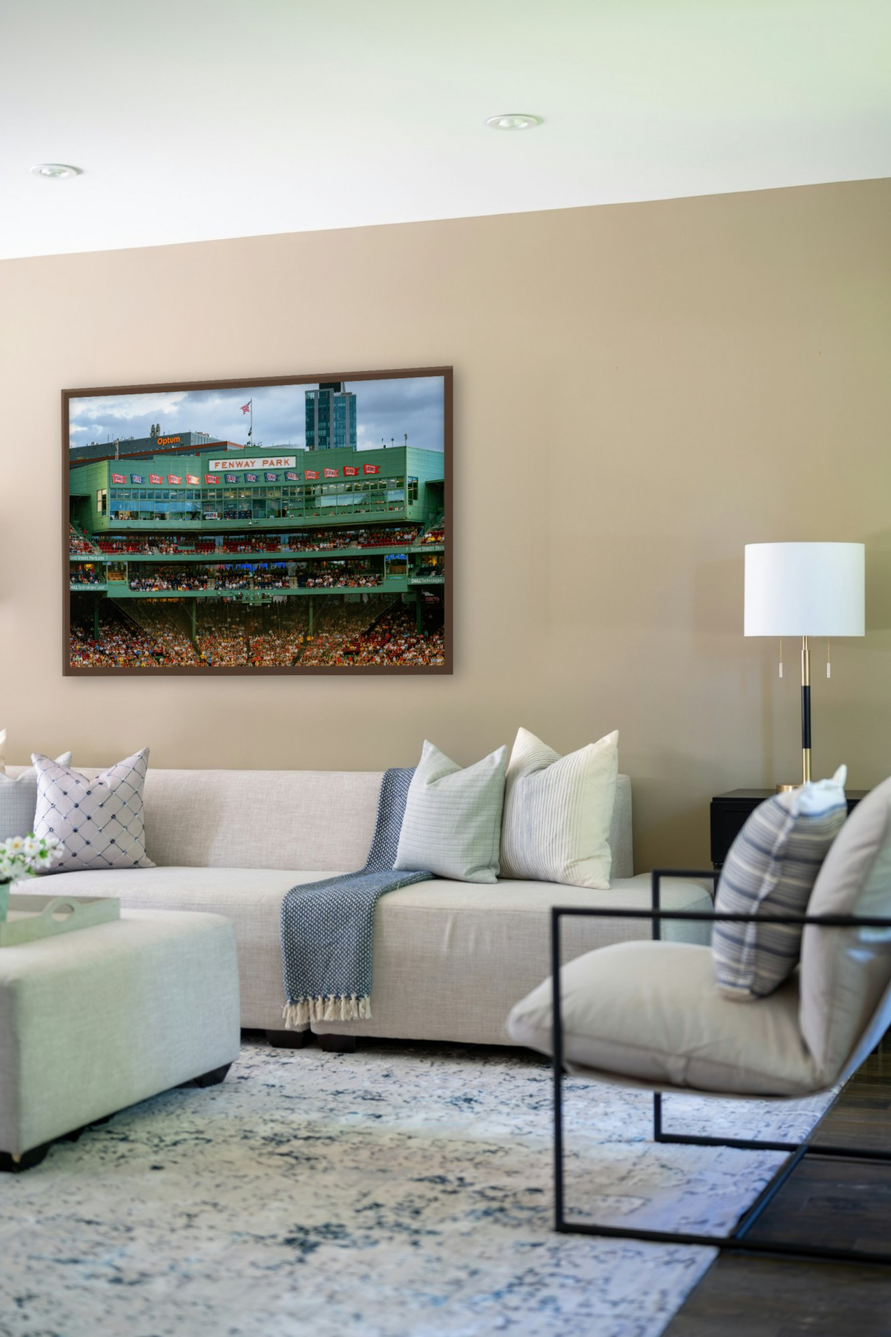
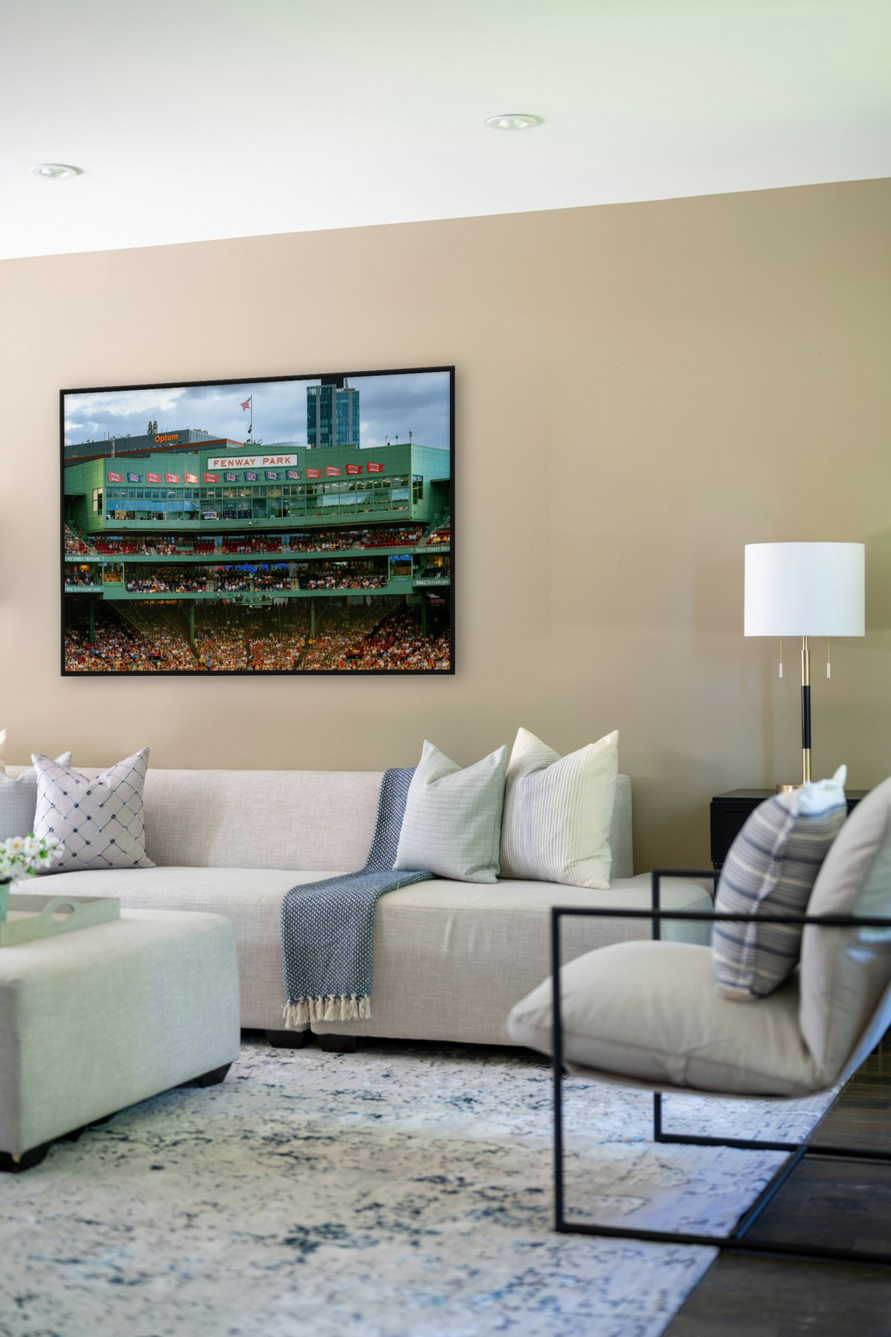
Room views: black frames on every framed view
Claude-Session: https://claude.ai/code/session_01MbwgoxaybNPLp1fp55gF6K

Changed region(s): [[0.0615, 0.248, 0.5229, 0.527]]

diff --git a/tow-zone.html b/tow-zone.html
@@ -16,7 +16,7 @@
 <meta property="og:title" content="&quot;Tow Zone&quot; — Bill Lin">
 <meta property="og:description" content="Tow Zone: a pigeon and sparrows at a bird feeder on a Boston street sign. A fine art print by Bill Lin.">
 <meta property="og:url" content="https://billlinphotos.com/tow-zone">
-<meta property="og:image" content="https://billlinphotos.com/images/tow-zone.jpg">
+<meta property="og:image" content="https://billlinphotos.com/images/tow-zone.jpg?v=2">
 <meta name="twitter:card" content="summary_large_image">
 <link rel="stylesheet" href="css/style.css?v=c9335f34">
 </head>
@@ -27,8 +27,8 @@
   <div class="crumbs"><a href="shop.html">Shop</a><span>›</span>"Tow Zone"</div>
   <div class="product-layout">
     <div class="product-gallery" style="--stage: 0.667">
-      <figure class="zoom pg-main"><img src="images/tow-zone.jpg" alt="Tow Zone — a pigeon landing at a bird feeder on a Boston street sign" srcset="images/sm/tow-zone.jpg 1200w, images/tow-zone.jpg 1707w" sizes="(max-width: 900px) 92vw, 46vw" decoding="async"></figure>
-      <div class="pg-thumbs" aria-label="More views"><button type="button" class="pg-thumb active" data-src="images/tow-zone.jpg" data-srcset="images/sm/tow-zone.jpg 1200w, images/tow-zone.jpg 1707w" aria-label="The print" aria-current="true"><img src="images/sm/tow-zone.jpg" alt="Tow Zone — a pigeon landing at a bird feeder on a Boston street sign" decoding="async"></button><button type="button" class="pg-thumb" data-material="Canvas Print" data-src="images/mockups/tow-zone-canvas-1.jpg" data-srcset="images/mockups/sm/tow-zone-canvas-1.jpg 667w, images/mockups/tow-zone-canvas-1.jpg 1333w" aria-label="Canvas — In a living room"><img src="images/mockups/sm/tow-zone-canvas-1.jpg" alt="Tow Zone — a pigeon landing at a bird feeder on a Boston street sign — canvas in a living room" decoding="async" loading="lazy"></button><button type="button" class="pg-thumb" data-material="Canvas Print" data-src="images/mockups/tow-zone-canvas-2.jpg" data-srcset="images/mockups/sm/tow-zone-canvas-2.jpg 1000w, images/mockups/tow-zone-canvas-2.jpg 2000w" aria-label="Canvas — By a reading chair"><img src="images/mockups/sm/tow-zone-canvas-2.jpg" alt="Tow Zone — a pigeon landing at a bird feeder on a Boston street sign — canvas by a reading chair" decoding="async" loading="lazy"></button><button type="button" class="pg-thumb" data-material="Canvas Print" data-src="images/mockups/tow-zone-canvas-3.jpg" data-srcset="images/mockups/sm/tow-zone-canvas-3.jpg 667w, images/mockups/tow-zone-canvas-3.jpg 1333w" aria-label="Canvas — Above a sofa"><img src="images/mockups/sm/tow-zone-canvas-3.jpg" alt="Tow Zone — a pigeon landing at a bird feeder on a Boston street sign — canvas above a sofa" decoding="async" loading="lazy"></button><button type="button" class="pg-thumb" data-material="Canvas Print" data-src="images/mockups/tow-zone-canvas-4.jpg" data-srcset="images/mockups/sm/tow-zone-canvas-4.jpg 667w, images/mockups/tow-zone-canvas-4.jpg 1333w" aria-label="Canvas — On a bare wall"><img src="images/mockups/sm/tow-zone-canvas-4.jpg" alt="Tow Zone — a pigeon landing at a bird feeder on a Boston street sign — canvas on a bare wall" decoding="async" loading="lazy"></button><button type="button" class="pg-thumb" data-material="Framed Print" data-src="images/mockups/tow-zone-1.jpg" data-srcset="images/mockups/sm/tow-zone-1.jpg 667w, images/mockups/tow-zone-1.jpg 1333w" aria-label="Framed — In a living room"><img src="images/mockups/sm/tow-zone-1.jpg" alt="Tow Zone — a pigeon landing at a bird feeder on a Boston street sign — in a living room" decoding="async" loading="lazy"></button><button type="button" class="pg-thumb" data-material="Framed Print" data-src="images/mockups/tow-zone-2.jpg" data-srcset="images/mockups/sm/tow-zone-2.jpg 1000w, images/mockups/tow-zone-2.jpg 2000w" aria-label="Framed — By a reading chair"><img src="images/mockups/sm/tow-zone-2.jpg" alt="Tow Zone — a pigeon landing at a bird feeder on a Boston street sign — by a reading chair" decoding="async" loading="lazy"></button><button type="button" class="pg-thumb" data-material="Framed Print" data-src="images/mockups/tow-zone-3.jpg" data-srcset="images/mockups/sm/tow-zone-3.jpg 667w, images/mockups/tow-zone-3.jpg 1333w" aria-label="Framed — Above a sofa"><img src="images/mockups/sm/tow-zone-3.jpg" alt="Tow Zone — a pigeon landing at a bird feeder on a Boston street sign — above a sofa" decoding="async" loading="lazy"></button><button type="button" class="pg-thumb" data-material="Framed Print" data-src="images/mockups/tow-zone-4.jpg" data-srcset="images/mockups/sm/tow-zone-4.jpg 667w, images/mockups/tow-zone-4.jpg 1333w" aria-label="Framed — On a bare wall"><img src="images/mockups/sm/tow-zone-4.jpg" alt="Tow Zone — a pigeon landing at a bird feeder on a Boston street sign — on a bare wall" decoding="async" loading="lazy"></button></div>
+      <figure class="zoom pg-main"><img src="images/tow-zone.jpg?v=2" alt="Tow Zone — a pigeon landing at a bird feeder on a Boston street sign" srcset="images/sm/tow-zone.jpg?v=2 1200w, images/tow-zone.jpg?v=2 1707w" sizes="(max-width: 900px) 92vw, 46vw" decoding="async"></figure>
+      <div class="pg-thumbs" aria-label="More views"><button type="button" class="pg-thumb active" data-src="images/tow-zone.jpg?v=2" data-srcset="images/sm/tow-zone.jpg?v=2 1200w, images/tow-zone.jpg?v=2 1707w" aria-label="The print" aria-current="true"><img src="images/sm/tow-zone.jpg?v=2" alt="Tow Zone — a pigeon landing at a bird feeder on a Boston street sign" decoding="async"></button><button type="button" class="pg-thumb" data-material="Canvas Print" data-src="images/mockups/tow-zone-canvas-1.jpg?v=2" data-srcset="images/mockups/sm/tow-zone-canvas-1.jpg?v=2 667w, images/mockups/tow-zone-canvas-1.jpg?v=2 1333w" aria-label="Canvas — In a living room"><img src="images/mockups/sm/tow-zone-canvas-1.jpg?v=2" alt="Tow Zone — a pigeon landing at a bird feeder on a Boston street sign — canvas in a living room" decoding="async" loading="lazy"></button><button type="button" class="pg-thumb" data-material="Canvas Print" data-src="images/mockups/tow-zone-canvas-2.jpg?v=2" data-srcset="images/mockups/sm/tow-zone-canvas-2.jpg?v=2 1000w, images/mockups/tow-zone-canvas-2.jpg?v=2 2000w" aria-label="Canvas — By a reading chair"><img src="images/mockups/sm/tow-zone-canvas-2.jpg?v=2" alt="Tow Zone — a pigeon landing at a bird feeder on a Boston street sign — canvas by a reading chair" decoding="async" loading="lazy"></button><button type="button" class="pg-thumb" data-material="Canvas Print" data-src="images/mockups/tow-zone-canvas-3.jpg?v=2" data-srcset="images/mockups/sm/tow-zone-canvas-3.jpg?v=2 667w, images/mockups/tow-zone-canvas-3.jpg?v=2 1333w" aria-label="Canvas — Above a sofa"><img src="images/mockups/sm/tow-zone-canvas-3.jpg?v=2" alt="Tow Zone — a pigeon landing at a bird feeder on a Boston street sign — canvas above a sofa" decoding="async" loading="lazy"></button><button type="button" class="pg-thumb" data-material="Canvas Print" data-src="images/mockups/tow-zone-canvas-4.jpg?v=2" data-srcset="images/mockups/sm/tow-zone-canvas-4.jpg?v=2 667w, images/mockups/tow-zone-canvas-4.jpg?v=2 1333w" aria-label="Canvas — On a bare wall"><img src="images/mockups/sm/tow-zone-canvas-4.jpg?v=2" alt="Tow Zone — a pigeon landing at a bird feeder on a Boston street sign — canvas on a bare wall" decoding="async" loading="lazy"></button><button type="button" class="pg-thumb" data-material="Framed Print" data-src="images/mockups/tow-zone-1.jpg?v=2" data-srcset="images/mockups/sm/tow-zone-1.jpg?v=2 667w, images/mockups/tow-zone-1.jpg?v=2 1333w" aria-label="Framed — In a living room"><img src="images/mockups/sm/tow-zone-1.jpg?v=2" alt="Tow Zone — a pigeon landing at a bird feeder on a Boston street sign — in a living room" decoding="async" loading="lazy"></button><button type="button" class="pg-thumb" data-material="Framed Print" data-src="images/mockups/tow-zone-2.jpg?v=2" data-srcset="images/mockups/sm/tow-zone-2.jpg?v=2 1000w, images/mockups/tow-zone-2.jpg?v=2 2000w" aria-label="Framed — By a reading chair"><img src="images/mockups/sm/tow-zone-2.jpg?v=2" alt="Tow Zone — a pigeon landing at a bird feeder on a Boston street sign — by a reading chair" decoding="async" loading="lazy"></button><button type="button" class="pg-thumb" data-material="Framed Print" data-src="images/mockups/tow-zone-3.jpg?v=2" data-srcset="images/mockups/sm/tow-zone-3.jpg?v=2 667w, images/mockups/tow-zone-3.jpg?v=2 1333w" aria-label="Framed — Above a sofa"><img src="images/mockups/sm/tow-zone-3.jpg?v=2" alt="Tow Zone — a pigeon landing at a bird feeder on a Boston street sign — above a sofa" decoding="async" loading="lazy"></button><button type="button" class="pg-thumb" data-material="Framed Print" data-src="images/mockups/tow-zone-4.jpg?v=2" data-srcset="images/mockups/sm/tow-zone-4.jpg?v=2 667w, images/mockups/tow-zone-4.jpg?v=2 1333w" aria-label="Framed — On a bare wall"><img src="images/mockups/sm/tow-zone-4.jpg?v=2" alt="Tow Zone — a pigeon landing at a bird feeder on a Boston street sign — on a bare wall" decoding="async" loading="lazy"></button></div>
     </div>
     <div class="product-info" data-handle="tow-zone">
       <div class="product-text">

diff --git a/transient-serenity.html b/transient-serenity.html
@@ -28,7 +28,7 @@
   <div class="product-layout">
     <div class="product-gallery" style="--stage: 0.667">
       <figure class="zoom pg-main"><img src="images/DSC05015.jpg" alt="Transient Serenity — flowers on a wet sidewalk, Back Bay, Boston" srcset="images/sm/DSC05015.jpg 1200w, images/DSC05015.jpg 1706w" sizes="(max-width: 900px) 92vw, 46vw" decoding="async"></figure>
-      <div class="pg-thumbs" aria-label="More views"><button type="button" class="pg-thumb active" data-src="images/DSC05015.jpg" data-srcset="images/sm/DSC05015.jpg 1200w, images/DSC05015.jpg 1706w" aria-label="The print" aria-current="true"><img src="images/sm/DSC05015.jpg" alt="Transient Serenity — flowers on a wet sidewalk, Back Bay, Boston" decoding="async"></button><button type="button" class="pg-thumb" data-material="Canvas Print" data-src="images/mockups/transient-serenity-canvas-1.jpg" data-srcset="images/mockups/sm/transient-serenity-canvas-1.jpg 667w, images/mockups/transient-serenity-canvas-1.jpg 1333w" aria-label="Canvas — In a living room"><img src="images/mockups/sm/transient-serenity-canvas-1.jpg" alt="Transient Serenity — flowers on a wet sidewalk, Back Bay, Boston — canvas in a living room" decoding="async" loading="lazy"></button><button type="button" class="pg-thumb" data-material="Canvas Print" data-src="images/mockups/transient-serenity-canvas-2.jpg" data-srcset="images/mockups/sm/transient-serenity-canvas-2.jpg 1000w, images/mockups/transient-serenity-canvas-2.jpg 2000w" aria-label="Canvas — By a reading chair"><img src="images/mockups/sm/transient-serenity-canvas-2.jpg" alt="Transient Serenity — flowers on a wet sidewalk, Back Bay, Boston — canvas by a reading chair" decoding="async" loading="lazy"></button><button type="button" class="pg-thumb" data-material="Canvas Print" data-src="images/mockups/transient-serenity-canvas-3.jpg" data-srcset="images/mockups/sm/transient-serenity-canvas-3.jpg 667w, images/mockups/transient-serenity-canvas-3.jpg 1333w" aria-label="Canvas — Above a sofa"><img src="images/mockups/sm/transient-serenity-canvas-3.jpg" alt="Transient Serenity — flowers on a wet sidewalk, Back Bay, Boston — canvas above a sofa" decoding="async" loading="lazy"></button><button type="button" class="pg-thumb" data-material="Canvas Print" data-src="images/mockups/transient-serenity-canvas-4.jpg" data-srcset="images/mockups/sm/transient-serenity-canvas-4.jpg 667w, images/mockups/transient-serenity-canvas-4.jpg 1333w" aria-label="Canvas — On a bare wall"><img src="images/mockups/sm/transient-serenity-canvas-4.jpg" alt="Transient Serenity — flowers on a wet sidewalk, Back Bay, Boston — canvas on a bare wall" decoding="async" loading="lazy"></button><button type="button" class="pg-thumb" data-material="Framed Print" data-src="images/mockups/transient-serenity-1.jpg" data-srcset="images/mockups/sm/transient-serenity-1.jpg 667w, images/mockups/transient-serenity-1.jpg 1333w" aria-label="Framed — In a living room"><img src="images/mockups/sm/transient-serenity-1.jpg" alt="Transient Serenity — flowers on a wet sidewalk, Back Bay, Boston — in a living room" decoding="async" loading="lazy"></button><button type="button" class="pg-thumb" data-material="Framed Print" data-src="images/mockups/transient-serenity-2.jpg" data-srcset="images/mockups/sm/transient-serenity-2.jpg 1000w, images/mockups/transient-serenity-2.jpg 2000w" aria-label="Framed — By a reading chair"><img src="images/mockups/sm/transient-serenity-2.jpg" alt="Transient Serenity — flowers on a wet sidewalk, Back Bay, Boston — by a reading chair" decoding="async" loading="lazy"></button><button type="button" class="pg-thumb" data-material="Framed Print" data-src="images/mockups/transient-serenity-3.jpg" data-srcset="images/mockups/sm/transient-serenity-3.jpg 667w, images/mockups/transient-serenity-3.jpg 1333w" aria-label="Framed — Above a sofa"><img src="images/mockups/sm/transient-serenity-3.jpg" alt="Transient Serenity — flowers on a wet sidewalk, Back Bay, Boston — above a sofa" decoding="async" loading="lazy"></button><button type="button" class="pg-thumb" data-material="Framed Print" data-src="images/mockups/transient-serenity-4.jpg" data-srcset="images/mockups/sm/transient-serenity-4.jpg 667w, images/mockups/transient-serenity-4.jpg 1333w" aria-label="Framed — On a bare wall"><img src="images/mockups/sm/transient-serenity-4.jpg" alt="Transient Serenity — flowers on a wet sidewalk, Back Bay, Boston — on a bare wall" decoding="async" loading="lazy"></button></div>
+      <div class="pg-thumbs" aria-label="More views"><button type="button" class="pg-thumb active" data-src="images/DSC05015.jpg" data-srcset="images/sm/DSC05015.jpg 1200w, images/DSC05015.jpg 1706w" aria-label="The print" aria-current="true"><img src="images/sm/DSC05015.jpg" alt="Transient Serenity — flowers on a wet sidewalk, Back Bay, Boston" decoding="async"></button><button type="button" class="pg-thumb" data-material="Canvas Print" data-src="images/mockups/transient-serenity-canvas-1.jpg?v=2" data-srcset="images/mockups/sm/transient-serenity-canvas-1.jpg?v=2 667w, images/mockups/transient-serenity-canvas-1.jpg?v=2 1333w" aria-label="Canvas — In a living room"><img src="images/mockups/sm/transient-serenity-canvas-1.jpg?v=2" alt="Transient Serenity — flowers on a wet sidewalk, Back Bay, Boston — canvas in a living room" decoding="async" loading="lazy"></button><button type="button" class="pg-thumb" data-material="Canvas Print" data-src="images/mockups/transient-serenity-canvas-2.jpg?v=2" data-srcset="images/mockups/sm/transient-serenity-canvas-2.jpg?v=2 1000w, images/mockups/transient-serenity-canvas-2.jpg?v=2 2000w" aria-label="Canvas — By a reading chair"><img src="images/mockups/sm/transient-serenity-canvas-2.jpg?v=2" alt="Transient Serenity — flowers on a wet sidewalk, Back Bay, Boston — canvas by a reading chair" decoding="async" loading="lazy"></button><button type="button" class="pg-thumb" data-material="Canvas Print" data-src="images/mockups/transient-serenity-canvas-3.jpg?v=2" data-srcset="images/mockups/sm/transient-serenity-canvas-3.jpg?v=2 667w, images/mockups/transient-serenity-canvas-3.jpg?v=2 1333w" aria-label="Canvas — Above a sofa"><img src="images/mockups/sm/transient-serenity-canvas-3.jpg?v=2" alt="Transient Serenity — flowers on a wet sidewalk, Back Bay, Boston — canvas above a sofa" decoding="async" loading="lazy"></button><button type="button" class="pg-thumb" data-material="Canvas Print" data-src="images/mockups/transient-serenity-canvas-4.jpg?v=2" data-srcset="images/mockups/sm/transient-serenity-canvas-4.jpg?v=2 667w, images/mockups/transient-serenity-canvas-4.jpg?v=2 1333w" aria-label="Canvas — On a bare wall"><img src="images/mockups/sm/transient-serenity-canvas-4.jpg?v=2" alt="Transient Serenity — flowers on a wet sidewalk, Back Bay, Boston — canvas on a bare wall" decoding="async" loading="lazy"></button><button type="button" class="pg-thumb" data-material="Framed Print" data-src="images/mockups/transient-serenity-1.jpg?v=2" data-srcset="images/mockups/sm/transient-serenity-1.jpg?v=2 667w, images/mockups/transient-serenity-1.jpg?v=2 1333w" aria-label="Framed — In a living room"><img src="images/mockups/sm/transient-serenity-1.jpg?v=2" alt="Transient Serenity — flowers on a wet sidewalk, Back Bay, Boston — in a living room" decoding="async" loading="lazy"></button><button type="button" class="pg-thumb" data-material="Framed Print" data-src="images/mockups/transient-serenity-2.jpg?v=2" data-srcset="images/mockups/sm/transient-serenity-2.jpg?v=2 1000w, images/mockups/transient-serenity-2.jpg?v=2 2000w" aria-label="Framed — By a reading chair"><img src="images/mockups/sm/transient-serenity-2.jpg?v=2" alt="Transient Serenity — flowers on a wet sidewalk, Back Bay, Boston — by a reading chair" decoding="async" loading="lazy"></button><button type="button" class="pg-thumb" data-material="Framed Print" data-src="images/mockups/transient-serenity-3.jpg?v=2" data-srcset="images/mockups/sm/transient-serenity-3.jpg?v=2 667w, images/mockups/transient-serenity-3.jpg?v=2 1333w" aria-label="Framed — Above a sofa"><img src="images/mockups/sm/transient-serenity-3.jpg?v=2" alt="Transient Serenity — flowers on a wet sidewalk, Back Bay, Boston — above a sofa" decoding="async" loading="lazy"></button><button type="button" class="pg-thumb" data-material="Framed Print" data-src="images/mockups/transient-serenity-4.jpg?v=2" data-srcset="images/mockups/sm/transient-serenity-4.jpg?v=2 667w, images/mockups/transient-serenity-4.jpg?v=2 1333w" aria-label="Framed — On a bare wall"><img src="images/mockups/sm/transient-serenity-4.jpg?v=2" alt="Transient Serenity — flowers on a wet sidewalk, Back Bay, Boston — on a bare wall" decoding="async" loading="lazy"></button></div>
     </div>
     <div class="product-info" data-handle="transient-serenity">
       <div class="product-text">

diff --git a/boston-public-library.html b/boston-public-library.html
@@ -28,7 +28,7 @@
   <div class="product-layout wide">
     <div class="product-gallery">
       <figure class="zoom pg-main"><img src="images/DSC05012.jpg" alt="Boston Public Library at dawn, Copley Square" srcset="images/sm/DSC05012.jpg 1200w, images/DSC05012.jpg 2560w" sizes="92vw" decoding="async"></figure>
-      <div class="pg-thumbs" aria-label="More views"><button type="button" class="pg-thumb active" data-src="images/DSC05012.jpg" data-srcset="images/sm/DSC05012.jpg 1200w, images/DSC05012.jpg 2560w" aria-label="The print" aria-current="true"><img src="images/sm/DSC05012.jpg" alt="Boston Public Library at dawn, Copley Square" decoding="async"></button><button type="button" class="pg-thumb" data-material="Canvas Print" data-src="images/mockups/boston-public-library-canvas-1.jpg" data-srcset="images/mockups/sm/boston-public-library-canvas-1.jpg 667w, images/mockups/boston-public-library-canvas-1.jpg 1333w" aria-label="Canvas — In a living room"><img src="images/mockups/sm/boston-public-library-canvas-1.jpg" alt="Boston Public Library at dawn, Copley Square — canvas in a living room" decoding="async" loading="lazy"></button><button type="button" class="pg-thumb" data-material="Canvas Print" data-src="images/mockups/boston-public-library-canvas-2.jpg" data-srcset="images/mockups/sm/boston-public-library-canvas-2.jpg 1000w, images/mockups/boston-public-library-canvas-2.jpg 2000w" aria-label="Canvas — By a reading chair"><img src="images/mockups/sm/boston-public-library-canvas-2.jpg" alt="Boston Public Library at dawn, Copley Square — canvas by a reading chair" decoding="async" loading="lazy"></button><button type="button" class="pg-thumb" data-material="Canvas Print" data-src="images/mockups/boston-public-library-canvas-3.jpg" data-srcset="images/mockups/sm/boston-public-library-canvas-3.jpg 667w, images/mockups/boston-public-library-canvas-3.jpg 1333w" aria-label="Canvas — Above a sofa"><img src="images/mockups/sm/boston-public-library-canvas-3.jpg" alt="Boston Public Library at dawn, Copley Square — canvas above a sofa" decoding="async" loading="lazy"></button><button type="button" class="pg-thumb" data-material="Canvas Print" data-src="images/mockups/boston-public-library-canvas-4.jpg" data-srcset="images/mockups/sm/boston-public-library-canvas-4.jpg 667w, images/mockups/boston-public-library-canvas-4.jpg 1333w" aria-label="Canvas — On a bare wall"><img src="images/mockups/sm/boston-public-library-canvas-4.jpg" alt="Boston Public Library at dawn, Copley Square — canvas on a bare wall" decoding="async" loading="lazy"></button><button type="button" class="pg-thumb" data-material="Framed Print" data-src="images/mockups/boston-public-library-1.jpg" data-srcset="images/mockups/sm/boston-public-library-1.jpg 667w, images/mockups/boston-public-library-1.jpg 1333w" aria-label="Framed — In a living room"><img src="images/mockups/sm/boston-public-library-1.jpg" alt="Boston Public Library at dawn, Copley Square — in a living room" decoding="async" loading="lazy"></button><button type="button" class="pg-thumb" data-material="Framed Print" data-src="images/mockups/boston-public-library-2.jpg" data-srcset="images/mockups/sm/boston-public-library-2.jpg 1000w, images/mockups/boston-public-library-2.jpg 2000w" aria-label="Framed — By a reading chair"><img src="images/mockups/sm/boston-public-library-2.jpg" alt="Boston Public Library at dawn, Copley Square — by a reading chair" decoding="async" loading="lazy"></button><button type="button" class="pg-thumb" data-material="Framed Print" data-src="images/mockups/boston-public-library-3.jpg" data-srcset="images/mockups/sm/boston-public-library-3.jpg 667w, images/mockups/boston-public-library-3.jpg 1333w" aria-label="Framed — Above a sofa"><img src="images/mockups/sm/boston-public-library-3.jpg" alt="Boston Public Library at dawn, Copley Square — above a sofa" decoding="async" loading="lazy"></button><button type="button" class="pg-thumb" data-material="Framed Print" data-src="images/mockups/boston-public-library-4.jpg" data-srcset="images/mockups/sm/boston-public-library-4.jpg 667w, images/mockups/boston-public-library-4.jpg 1333w" aria-label="Framed — On a bare wall"><img src="images/mockups/sm/boston-public-library-4.jpg" alt="Boston Public Library at dawn, Copley Square — on a bare wall" decoding="async" loading="lazy"></button></div>
+      <div class="pg-thumbs" aria-label="More views"><button type="button" class="pg-thumb active" data-src="images/DSC05012.jpg" data-srcset="images/sm/DSC05012.jpg 1200w, images/DSC05012.jpg 2560w" aria-label="The print" aria-current="true"><img src="images/sm/DSC05012.jpg" alt="Boston Public Library at dawn, Copley Square" decoding="async"></button><button type="button" class="pg-thumb" data-material="Canvas Print" data-src="images/mockups/boston-public-library-canvas-1.jpg?v=2" data-srcset="images/mockups/sm/boston-public-library-canvas-1.jpg?v=2 667w, images/mockups/boston-public-library-canvas-1.jpg?v=2 1333w" aria-label="Canvas — In a living room"><img src="images/mockups/sm/boston-public-library-canvas-1.jpg?v=2" alt="Boston Public Library at dawn, Copley Square — canvas in a living room" decoding="async" loading="lazy"></button><button type="button" class="pg-thumb" data-material="Canvas Print" data-src="images/mockups/boston-public-library-canvas-2.jpg?v=2" data-srcset="images/mockups/sm/boston-public-library-canvas-2.jpg?v=2 1000w, images/mockups/boston-public-library-canvas-2.jpg?v=2 2000w" aria-label="Canvas — By a reading chair"><img src="images/mockups/sm/boston-public-library-canvas-2.jpg?v=2" alt="Boston Public Library at dawn, Copley Square — canvas by a reading chair" decoding="async" loading="lazy"></button><button type="button" class="pg-thumb" data-material="Canvas Print" data-src="images/mockups/boston-public-library-canvas-3.jpg?v=2" data-srcset="images/mockups/sm/boston-public-library-canvas-3.jpg?v=2 667w, images/mockups/boston-public-library-canvas-3.jpg?v=2 1333w" aria-label="Canvas — Above a sofa"><img src="images/mockups/sm/boston-public-library-canvas-3.jpg?v=2" alt="Boston Public Library at dawn, Copley Square — canvas above a sofa" decoding="async" loading="lazy"></button><button type="button" class="pg-thumb" data-material="Canvas Print" data-src="images/mockups/boston-public-library-canvas-4.jpg?v=2" data-srcset="images/mockups/sm/boston-public-library-canvas-4.jpg?v=2 667w, images/mockups/boston-public-library-canvas-4.jpg?v=2 1333w" aria-label="Canvas — On a bare wall"><img src="images/mockups/sm/boston-public-library-canvas-4.jpg?v=2" alt="Boston Public Library at dawn, Copley Square — canvas on a bare wall" decoding="async" loading="lazy"></button><button type="button" class="pg-thumb" data-material="Framed Print" data-src="images/mockups/boston-public-library-1.jpg?v=2" data-srcset="images/mockups/sm/boston-public-library-1.jpg?v=2 667w, images/mockups/boston-public-library-1.jpg?v=2 1333w" aria-label="Framed — In a living room"><img src="images/mockups/sm/boston-public-library-1.jpg?v=2" alt="Boston Public Library at dawn, Copley Square — in a living room" decoding="async" loading="lazy"></button><button type="button" class="pg-thumb" data-material="Framed Print" data-src="images/mockups/boston-public-library-2.jpg?v=2" data-srcset="images/mockups/sm/boston-public-library-2.jpg?v=2 1000w, images/mockups/boston-public-library-2.jpg?v=2 2000w" aria-label="Framed — By a reading chair"><img src="images/mockups/sm/boston-public-library-2.jpg?v=2" alt="Boston Public Library at dawn, Copley Square — by a reading chair" decoding="async" loading="lazy"></button><button type="button" class="pg-thumb" data-material="Framed Print" data-src="images/mockups/boston-public-library-3.jpg?v=2" data-srcset="images/mockups/sm/boston-public-library-3.jpg?v=2 667w, images/mockups/boston-public-library-3.jpg?v=2 1333w" aria-label="Framed — Above a sofa"><img src="images/mockups/sm/boston-public-library-3.jpg?v=2" alt="Boston Public Library at dawn, Copley Square — above a sofa" decoding="async" loading="lazy"></button><button type="button" class="pg-thumb" data-material="Framed Print" data-src="images/mockups/boston-public-library-4.jpg?v=2" data-srcset="images/mockups/sm/boston-public-library-4.jpg?v=2 667w, images/mockups/boston-public-library-4.jpg?v=2 1333w" aria-label="Framed — On a bare wall"><img src="images/mockups/sm/boston-public-library-4.jpg?v=2" alt="Boston Public Library at dawn, Copley Square — on a bare wall" decoding="async" loading="lazy"></button></div>
     </div>
     <div class="product-info" data-handle="boston-public-library">
       <div class="product-text">

diff --git a/fenway-park.html b/fenway-park.html
@@ -28,7 +28,7 @@
   <div class="product-layout wide">
     <div class="product-gallery">
       <figure class="zoom pg-main"><img src="images/DSC04873.jpg" alt="Fenway Park on game day, Boston" srcset="images/sm/DSC04873.jpg 1200w, images/DSC04873.jpg 2560w" sizes="92vw" decoding="async"></figure>
-      <div class="pg-thumbs" aria-label="More views"><button type="button" class="pg-thumb active" data-src="images/DSC04873.jpg" data-srcset="images/sm/DSC04873.jpg 1200w, images/DSC04873.jpg 2560w" aria-label="The print" aria-current="true"><img src="images/sm/DSC04873.jpg" alt="Fenway Park on game day, Boston" decoding="async"></button><button type="button" class="pg-thumb" data-material="Canvas Print" data-src="images/mockups/fenway-park-canvas-1.jpg" data-srcset="images/mockups/sm/fenway-park-canvas-1.jpg 667w, images/mockups/fenway-park-canvas-1.jpg 1333w" aria-label="Canvas — In a living room"><img src="images/mockups/sm/fenway-park-canvas-1.jpg" alt="Fenway Park on game day, Boston — canvas in a living room" decoding="async" loading="lazy"></button><button type="button" class="pg-thumb" data-material="Canvas Print" data-src="images/mockups/fenway-park-canvas-2.jpg" data-srcset="images/mockups/sm/fenway-park-canvas-2.jpg 1000w, images/mockups/fenway-park-canvas-2.jpg 2000w" aria-label="Canvas — By a reading chair"><img src="images/mockups/sm/fenway-park-canvas-2.jpg" alt="Fenway Park on game day, Boston — canvas by a reading chair" decoding="async" loading="lazy"></button><button type="button" class="pg-thumb" data-material="Canvas Print" data-src="images/mockups/fenway-park-canvas-3.jpg" data-srcset="images/mockups/sm/fenway-park-canvas-3.jpg 667w, images/mockups/fenway-park-canvas-3.jpg 1333w" aria-label="Canvas — Above a sofa"><img src="images/mockups/sm/fenway-park-canvas-3.jpg" alt="Fenway Park on game day, Boston — canvas above a sofa" decoding="async" loading="lazy"></button><button type="button" class="pg-thumb" data-material="Canvas Print" data-src="images/mockups/fenway-park-canvas-4.jpg" data-srcset="images/mockups/sm/fenway-park-canvas-4.jpg 667w, images/mockups/fenway-park-canvas-4.jpg 1333w" aria-label="Canvas — On a bare wall"><img src="images/mockups/sm/fenway-park-canvas-4.jpg" alt="Fenway Park on game day, Boston — canvas on a bare wall" decoding="async" loading="lazy"></button><button type="button" class="pg-thumb" data-material="Framed Print" data-src="images/mockups/fenway-park-1.jpg" data-srcset="images/mockups/sm/fenway-park-1.jpg 667w, images/mockups/fenway-park-1.jpg 1333w" aria-label="Framed — In a living room"><img src="images/mockups/sm/fenway-park-1.jpg" alt="Fenway Park on game day, Boston — in a living room" decoding="async" loading="lazy"></button><button type="button" class="pg-thumb" data-material="Framed Print" data-src="images/mockups/fenway-park-2.jpg" data-srcset="images/mockups/sm/fenway-park-2.jpg 1000w, images/mockups/fenway-park-2.jpg 2000w" aria-label="Framed — By a reading chair"><img src="images/mockups/sm/fenway-park-2.jpg" alt="Fenway Park on game day, Boston — by a reading chair" decoding="async" loading="lazy"></button><button type="button" class="pg-thumb" data-material="Framed Print" data-src="images/mockups/fenway-park-3.jpg" data-srcset="images/mockups/sm/fenway-park-3.jpg 667w, images/mockups/fenway-park-3.jpg 1333w" aria-label="Framed — Above a sofa"><img src="images/mockups/sm/fenway-park-3.jpg" alt="Fenway Park on game day, Boston — above a sofa" decoding="async" loading="lazy"></button><button type="button" class="pg-thumb" data-material="Framed Print" data-src="images/mockups/fenway-park-4.jpg" data-srcset="images/mockups/sm/fenway-park-4.jpg 667w, images/mockups/fenway-park-4.jpg 1333w" aria-label="Framed — On a bare wall"><img src="images/mockups/sm/fenway-park-4.jpg" alt="Fenway Park on game day, Boston — on a bare wall" decoding="async" loading="lazy"></button></div>
+      <div class="pg-thumbs" aria-label="More views"><button type="button" class="pg-thumb active" data-src="images/DSC04873.jpg" data-srcset="images/sm/DSC04873.jpg 1200w, images/DSC04873.jpg 2560w" aria-label="The print" aria-current="true"><img src="images/sm/DSC04873.jpg" alt="Fenway Park on game day, Boston" decoding="async"></button><button type="button" class="pg-thumb" data-material="Canvas Print" data-src="images/mockups/fenway-park-canvas-1.jpg?v=2" data-srcset="images/mockups/sm/fenway-park-canvas-1.jpg?v=2 667w, images/mockups/fenway-park-canvas-1.jpg?v=2 1333w" aria-label="Canvas — In a living room"><img src="images/mockups/sm/fenway-park-canvas-1.jpg?v=2" alt="Fenway Park on game day, Boston — canvas in a living room" decoding="async" loading="lazy"></button><button type="button" class="pg-thumb" data-material="Canvas Print" data-src="images/mockups/fenway-park-canvas-2.jpg?v=2" data-srcset="images/mockups/sm/fenway-park-canvas-2.jpg?v=2 1000w, images/mockups/fenway-park-canvas-2.jpg?v=2 2000w" aria-label="Canvas — By a reading chair"><img src="images/mockups/sm/fenway-park-canvas-2.jpg?v=2" alt="Fenway Park on game day, Boston — canvas by a reading chair" decoding="async" loading="lazy"></button><button type="button" class="pg-thumb" data-material="Canvas Print" data-src="images/mockups/fenway-park-canvas-3.jpg?v=2" data-srcset="images/mockups/sm/fenway-park-canvas-3.jpg?v=2 667w, images/mockups/fenway-park-canvas-3.jpg?v=2 1333w" aria-label="Canvas — Above a sofa"><img src="images/mockups/sm/fenway-park-canvas-3.jpg?v=2" alt="Fenway Park on game day, Boston — canvas above a sofa" decoding="async" loading="lazy"></button><button type="button" class="pg-thumb" data-material="Canvas Print" data-src="images/mockups/fenway-park-canvas-4.jpg?v=2" data-srcset="images/mockups/sm/fenway-park-canvas-4.jpg?v=2 667w, images/mockups/fenway-park-canvas-4.jpg?v=2 1333w" aria-label="Canvas — On a bare wall"><img src="images/mockups/sm/fenway-park-canvas-4.jpg?v=2" alt="Fenway Park on game day, Boston — canvas on a bare wall" decoding="async" loading="lazy"></button><button type="button" class="pg-thumb" data-material="Framed Print" data-src="images/mockups/fenway-park-1.jpg?v=2" data-srcset="images/mockups/sm/fenway-park-1.jpg?v=2 667w, images/mockups/fenway-park-1.jpg?v=2 1333w" aria-label="Framed — In a living room"><img src="images/mockups/sm/fenway-park-1.jpg?v=2" alt="Fenway Park on game day, Boston — in a living room" decoding="async" loading="lazy"></button><button type="button" class="pg-thumb" data-material="Framed Print" data-src="images/mockups/fenway-park-2.jpg?v=2" data-srcset="images/mockups/sm/fenway-park-2.jpg?v=2 1000w, images/mockups/fenway-park-2.jpg?v=2 2000w" aria-label="Framed — By a reading chair"><img src="images/mockups/sm/fenway-park-2.jpg?v=2" alt="Fenway Park on game day, Boston — by a reading chair" decoding="async" loading="lazy"></button><button type="button" class="pg-thumb" data-material="Framed Print" data-src="images/mockups/fenway-park-3.jpg?v=2" data-srcset="images/mockups/sm/fenway-park-3.jpg?v=2 667w, images/mockups/fenway-park-3.jpg?v=2 1333w" aria-label="Framed — Above a sofa"><img src="images/mockups/sm/fenway-park-3.jpg?v=2" alt="Fenway Park on game day, Boston — above a sofa" decoding="async" loading="lazy"></button><button type="button" class="pg-thumb" data-material="Framed Print" data-src="images/mockups/fenway-park-4.jpg?v=2" data-srcset="images/mockups/sm/fenway-park-4.jpg?v=2 667w, images/mockups/fenway-park-4.jpg?v=2 1333w" aria-label="Framed — On a bare wall"><img src="images/mockups/sm/fenway-park-4.jpg?v=2" alt="Fenway Park on game day, Boston — on a bare wall" decoding="async" loading="lazy"></button></div>
     </div>
     <div class="product-info" data-handle="fenway-park">
       <div class="product-text">

diff --git a/shop.html b/shop.html
@@ -48,7 +48,7 @@
       <p>from $80.00</p>
     </a>
     <a class="product-card" style="--ar:0.667" href="tow-zone.html" data-cats="prints">
-      <div class="ph"><img src="images/tow-zone.jpg" alt="Tow Zone" srcset="images/sm/tow-zone.jpg 1200w, images/tow-zone.jpg 1707w" sizes="(max-width: 560px) 92vw, (max-width: 900px) 46vw, 23vw" decoding="async"></div>
+      <div class="ph"><img src="images/tow-zone.jpg?v=2" alt="Tow Zone" srcset="images/sm/tow-zone.jpg?v=2 1200w, images/tow-zone.jpg?v=2 1707w" sizes="(max-width: 560px) 92vw, (max-width: 900px) 46vw, 23vw" decoding="async"></div>
       <h3>"Tow Zone"</h3>
       <p>from $80.00</p>
     </a>

diff --git a/tools/roomviews.py b/tools/roomviews.py
@@ -21,7 +21,7 @@ ROOMS = [
         file="room0.jpg",
         erase=[[(30, 745), (1045, 695), (1045, 1310), (30, 1310)]], donor=(1060, 760, 1420, 1320),
         plane_rect=(2.0, 1.0), plane_quad=[(71, 790), (928, 741), (928, 1240), (73, 1248)],
-        hang=dict(cx=1.0, cy=0.52, maxw=2.15, maxh=1.2), frame="walnut", light=(1, 0.4)),
+        hang=dict(cx=1.0, cy=0.52, maxw=2.15, maxh=1.2), frame="black", light=(1, 0.4)),
     dict(  # white living room, yellow armchair, black frame + mat
         file="room1.jpg",
         erase=[[(1160, 372), (1684, 372), (1684, 1078), (1160, 1078)]], donor=(700, 700, 1140, 1120),
@@ -31,7 +31,7 @@ ROOMS = [
         file="room2.jpg",
         erase=[[(612, 568), (1440, 500), (1440, 1045), (612, 1045)]], donor=(650, 1060, 1350, 1235),
         plane_rect=(0.714, 1.0), plane_quad=[(1013, 559), (1379, 524), (1374, 1017), (1011, 1021)],
-        hang=dict(cx=-0.33, cy=0.5, maxw=1.6, maxh=1.2), frame="oak-mat", light=(1, 0.35)),
+        hang=dict(cx=-0.33, cy=0.5, maxw=1.6, maxh=1.2), frame="black-mat", light=(1, 0.35)),
     dict(  # empty white wall, bentwood chair, thin black frame
         file="room3.jpg",
         erase=[],

diff --git a/CLAUDE.md b/CLAUDE.md
@@ -46,7 +46,7 @@ The owner tried a headless Shopify setup (modelled on skypathstudio.com) but dro
 - There is no returns/refunds page (the owner had one made, then asked to delete it).
 - New product: add it to `PRODUCTS` in the catalog, upload its print file to R2, copy `transient-serenity.html` (portrait) or `boston-public-library.html` (landscape) to `<handle>.html`, set `data-handle`, title, photo, description, room-view thumbnails and option buttons, add a `.product-card` to `shop.html` and a sitemap line, then run the test.
 - Product page layout: `.product-info` holds `.product-text` (h1 + desc) and `.buy-box` (options, price, Add to Cart, notes). Landscape/panorama photos (width/height ≥ 1.25; `js/main.js` sets `.product-layout.wide`, also written in the HTML to avoid a flash) go full width on top with text and buy-box below in two columns (image `sizes="92vw"`); portrait/square photos sit left of the text and are capped at the window height so the whole print shows without scrolling.
-- Product gallery: each product page has `.product-gallery` = `figure.zoom.pg-main` + `.pg-thumbs` (buttons with `data-src`/`data-srcset`): the print, then room views of the print on a wall (the owner wants at least three, photo-realistic — NOT illustrations; the drawn ones from `tools/mockups.js` were rejected and removed). Room views are made by `python3 tools/roomviews.py images/NAME.jpg HANDLE` from the owner's free-licence room photos in `tools/rooms/room0-3.jpg` (old artwork erased and wall refilled with real wall texture, the print framed per room — walnut / black+mat / oak+mat / thin black — warped to the wall's perspective, shadowed and matched to the room light) → `images/mockups/HANDLE-1..4.jpg` (long edge 2000) + `sm/` (1000); then add one `.pg-thumb` per view. Each print has two sets: framed views `HANDLE-1..4` (`data-material="Framed Print"`) and gallery-wrapped canvas views `HANDLE-canvas-1..4` from `roomviews.py … --canvas` (`data-material="Canvas Print"`; no frame, wrapped edge on the side the camera sees, deeper shadow). `data-material` must equal the option's `data-value`: only the chosen material's views are shown (plus the plain print, which has no data-material), and clicking a material jumps the main picture to its first room view; arrows, keys, swipe and the lightbox only step through the shown thumbs. New room photos can only come from the owner (this workspace cannot download from stock sites); add each to `ROOMS` in the script with its erase quads, wall-plane quad, hanging box and frame style. The main picture sits in a fixed-size stage (`--stage` = the print's aspect ratio, set by js/main.js) so switching views never resizes the page; every picture (print and room views, main and thumbnails) is shown whole with `object-fit: contain` — the owner does not want anything cropped. Portrait prints on computer: three columns — picture, then a vertical column of thumbnails right beside it spanning the picture's height, then the text/buying (`.product-gallery` is `display: contents` there; this is the layout the owner drew); phones and landscape prints: thumbnails in a row below. With only one thumb the strip is hidden. Thumbnails switch the main picture, ‹ › arrows on the main picture (`.pg-arrow`, added by js/main.js; shown on hover on computers, always on phones) step through the views, so do the keyboard ← → keys (ignored while the lightbox, cart or menu is open), swipe works on phones, and the lightbox browses all of them.
+- Product gallery: each product page has `.product-gallery` = `figure.zoom.pg-main` + `.pg-thumbs` (buttons with `data-src`/`data-srcset`): the print, then room views of the print on a wall (the owner wants at least three, photo-realistic — NOT illustrations; the drawn ones from `tools/mockups.js` were rejected and removed). Room views are made by `python3 tools/roomviews.py images/NAME.jpg HANDLE` from the owner's free-licence room photos in `tools/rooms/room0-3.jpg` (old artwork erased and wall refilled with real wall texture, the print framed per room — all black frames (owner's choice): thin black / black+mat / black+mat / thin black — warped to the wall's perspective, shadowed and matched to the room light) → `images/mockups/HANDLE-1..4.jpg` (long edge 2000) + `sm/` (1000); then add one `.pg-thumb` per view. Each print has two sets: framed views `HANDLE-1..4` (`data-material="Framed Print"`) and gallery-wrapped canvas views `HANDLE-canvas-1..4` from `roomviews.py … --canvas` (`data-material="Canvas Print"`; no frame, wrapped edge on the side the camera sees, deeper shadow). `data-material` must equal the option's `data-value`: only the chosen material's views are shown (plus the plain print, which has no data-material), and clicking a material jumps the main picture to its first room view; arrows, keys, swipe and the lightbox only step through the shown thumbs. New room photos can only come from the owner (this workspace cannot download from stock sites); add each to `ROOMS` in the script with its erase quads, wall-plane quad, hanging box and frame style. The main picture sits in a fixed-size stage (`--stage` = the print's aspect ratio, set by js/main.js) so switching views never resizes the page; every picture (print and room views, main and thumbnails) is shown whole with `object-fit: contain` — the owner does not want anything cropped. Portrait prints on computer: three columns — picture, then a vertical column of thumbnails right beside it spanning the picture's height, then the text/buying (`.product-gallery` is `display: contents` there; this is the layout the owner drew); phones and landscape prints: thumbnails in a row below. With only one thumb the strip is hidden. Thumbnails switch the main picture, ‹ › arrows on the main picture (`.pg-arrow`, added by js/main.js; shown on hover on computers, always on phones) step through the views, so do the keyboard ← → keys (ignored while the lightbox, cart or menu is open), swipe works on phones, and the lightbox browses all of them.
 
 ## Commits
 After any change to `css/` or `js/`, run `python3 tools/stamp_assets.py` before committing: it puts a content hash on every `css/style.css`, `js/main.js` and `js/config.js` link (`?v=…`). The billlinphotos.com zone forces a 4-hour browser cache on CSS/JS, so without a new `?v=` visitors keep the old files. New pages must use the same links (copy them from an existing page, then re-run the script).
